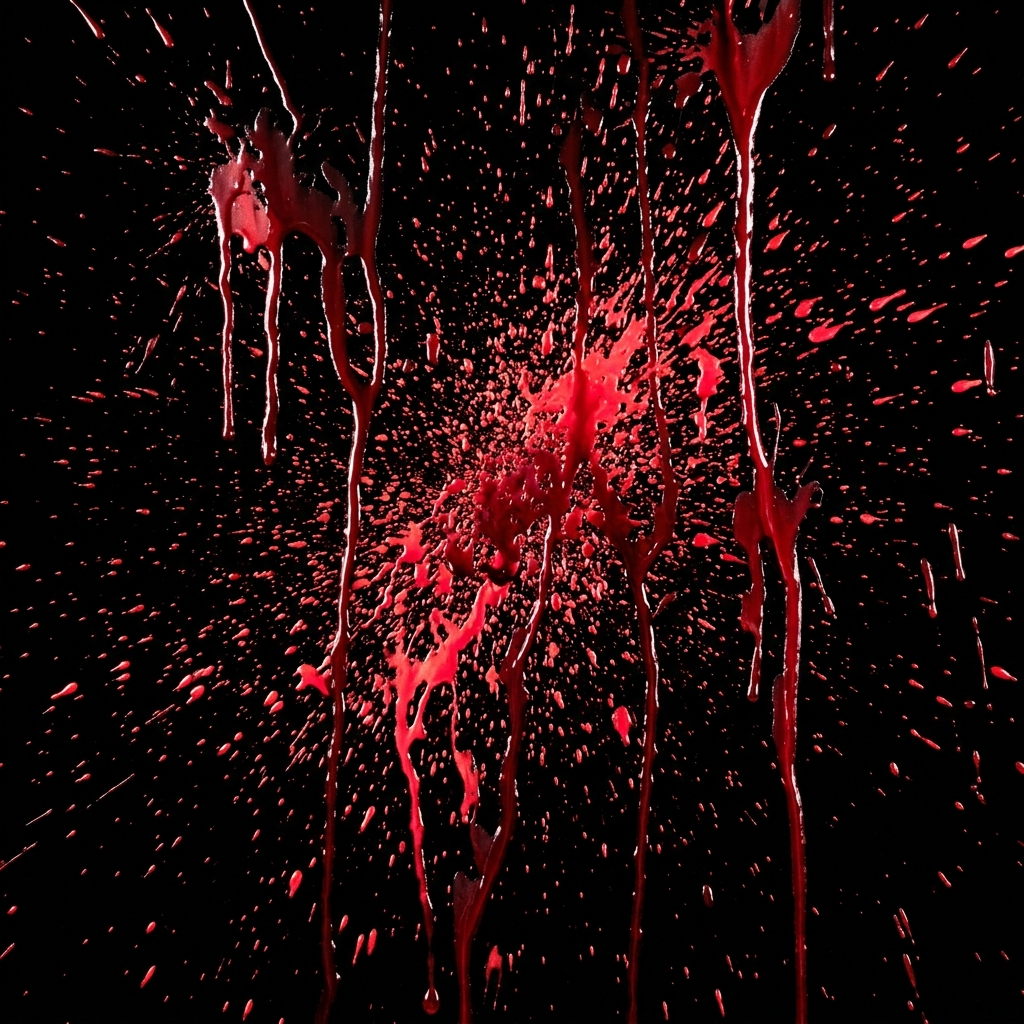
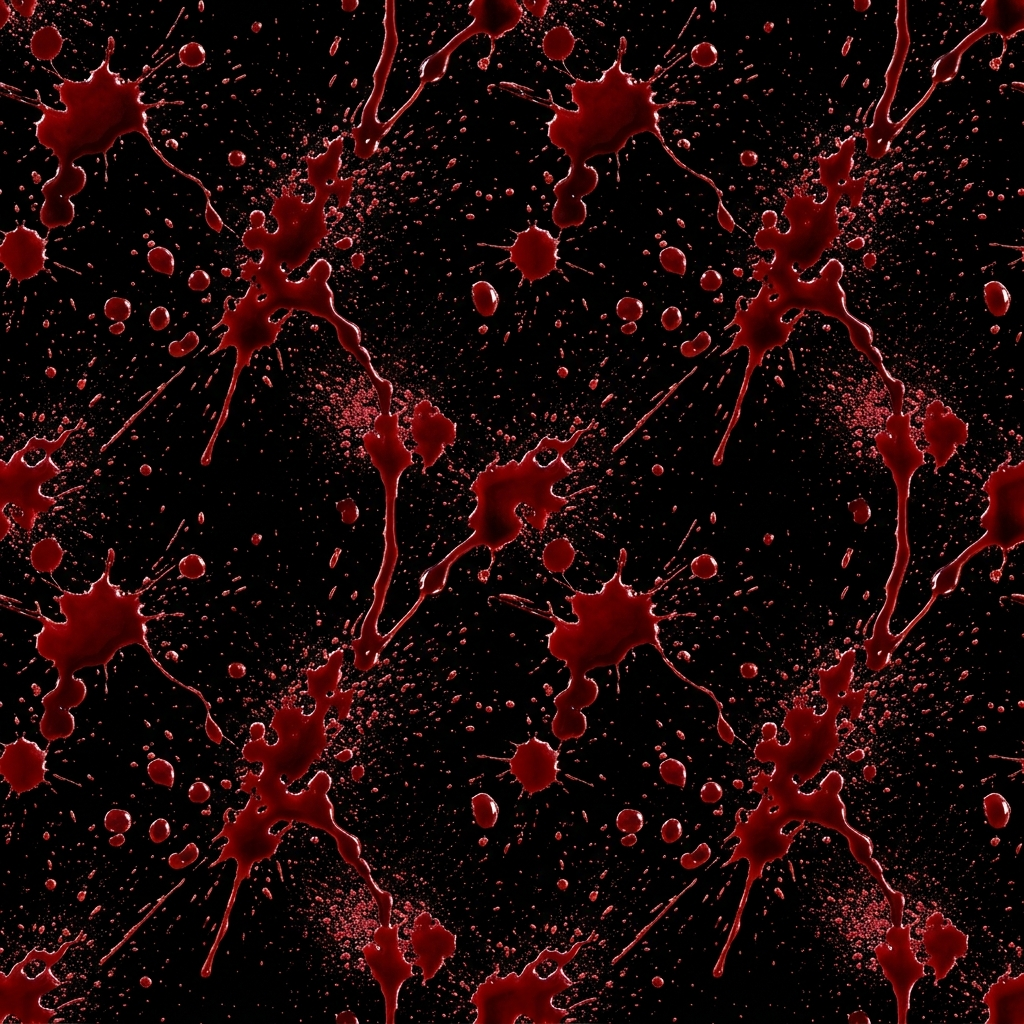
Fix scrolling red background and make blood texture crisp

diff --git a/src/App.css b/src/App.css
@@ -31,9 +31,8 @@ body {
   inset: 0;
   pointer-events: none;
   z-index: 1;
-  background-size: cover;
-  background-position: center;
-  background-repeat: no-repeat;
+  background-size: 500px;
+  background-repeat: repeat;
   mix-blend-mode: screen; /* Screens out the pure black background of the image */
   opacity: 0.45; /* Semi-transparent so it's a subtle texture */
 }

diff --git a/src/index.css b/src/index.css
@@ -25,6 +25,7 @@
 
 body {
   background: radial-gradient(circle at 50% 0%, var(--bg-dark), var(--bg-deep));
+  background-attachment: fixed;
   color: var(--text-primary);
   font-family: var(--font-body);
   min-height: 100vh;
